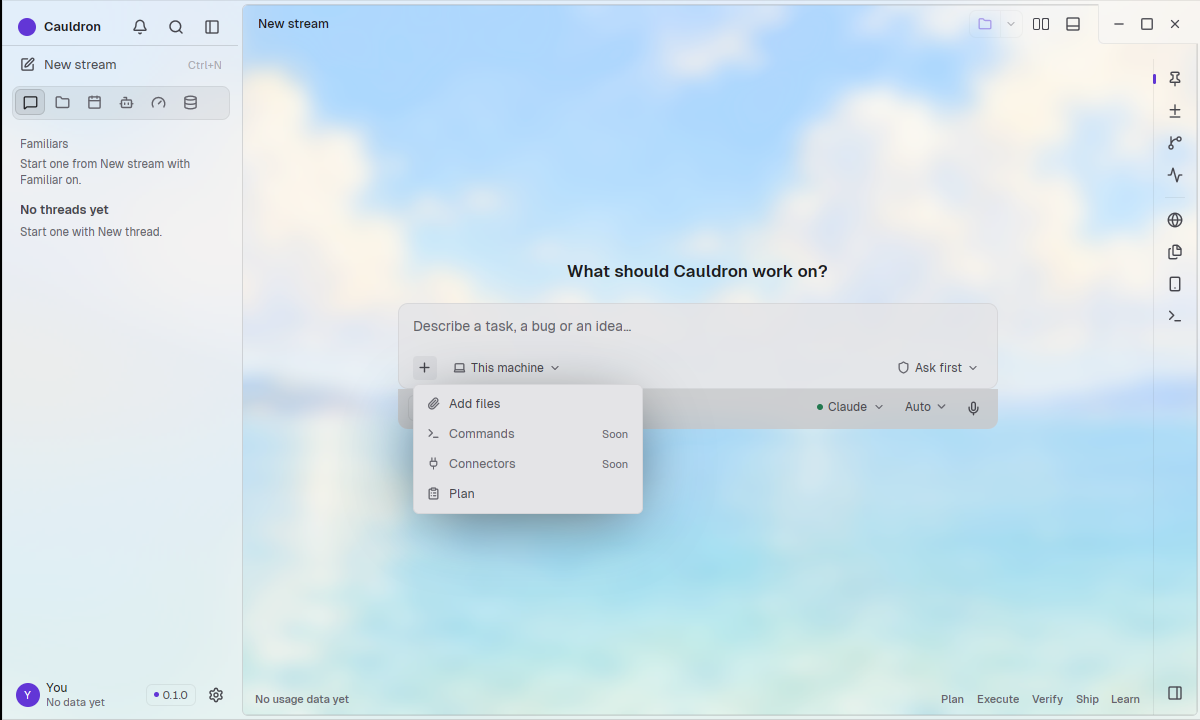
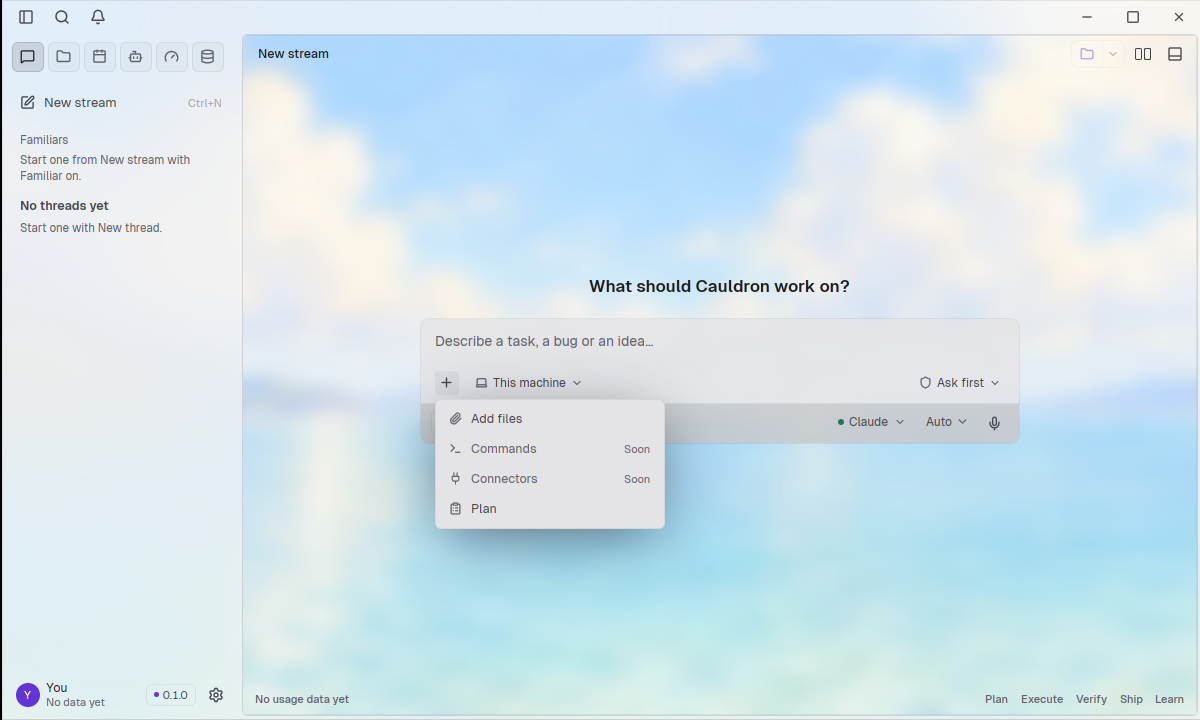
Composer: one border around the box and tray; merge top-bar and apps-row work (PR 61)
Claude-Session: https://claude.ai/code/session_01LKPD2Fpi6kmiMA27fdpFm5

diff --git a/crates/app/src/shell/newthread.rs b/crates/app/src/shell/newthread.rs
@@ -404,9 +404,7 @@ impl Cauldron {
             .pr(px(10.))
             .pb(px(8.))
             .bg(super::backdrop::surface(self.painting, pal.raised, super::backdrop::GLASS_COMPOSER))
-            .rounded(px(radius::SHELL))
-            .border_1()
-            .border_color(if focused { body_line(pal, true) } else if self.plan { c(pal.accent) } else { c(pal.line) })
+            .rounded_t(px(radius::SHELL - 1.))
             .child(div().id("nt-input").mx(px(-10.)).text_size(px(13.)).child(Textarea::new(&input).appearance(false)).test_support());
         if !self.start.files.is_empty() {
             let mut row = div().flex().flex_wrap().gap(px(6.));
@@ -504,8 +502,10 @@ impl Cauldron {
             .overflow_hidden()
             .relative()
             .bg(super::backdrop::surface(self.painting, pal.raised, super::backdrop::GLASS_COMPOSER))
-            .rounded_b(px(radius::SHELL))
-            .child(div().absolute().left_0().top_0().size_full().rounded_b(px(radius::SHELL)).bg(gpui::black().opacity(0.10)))
+            .border_t_1()
+            .border_color(c(pal.line))
+            .rounded_b(px(radius::SHELL - 1.))
+            .child(div().absolute().left_0().top_0().size_full().rounded_b(px(radius::SHELL - 1.)).bg(gpui::black().opacity(0.10)))
             .child(folder)
             .child(div().flex_1())
             .child(self.route_chip("nt-model", super::subs::PickFor::New, self.start.route.as_ref(), pal, cx))
@@ -529,12 +529,12 @@ impl Cauldron {
             .aria_label("What should Cauldron work on?")
             .child("What should Cauldron work on?")
             .test_support();
-        let nt_stack = div().id("nt-stack").flex().flex_col().on_hover(cx.listener(|this, h: &bool, _, cx| {
+        let nt_stack = div().id("nt-stack").flex().flex_col().rounded(px(radius::SHELL)).border_1().border_color(if focused { body_line(pal, true) } else if self.plan { c(pal.accent) } else { c(pal.line) }).on_hover(cx.listener(|this, h: &bool, _, cx| {
             if this.start.tray_hover != *h {
                 this.start.tray_hover = *h;
                 cx.notify();
             }
-        })).child(nt_box).child(bar);
+        })).child(nt_box).child(bar).test_support();
         let mut wrap = div().w_full().max_w(px(BOX_W)).flex().flex_col().child(heading).child(nt_stack);
         if let Some(e) = &self.start.error {
             wrap = wrap.child(line("start-error", e.clone(), c(pal.bad)));
@@ -957,7 +957,7 @@ mod tests {
             }
             let (bx, by, bw, bh) = rect(window, "nt-box");
             let (cx0, cy0, cw, ch) = rect(window, "new-thread-screen");
-            assert_eq!(bw, 600f32.min(cw - 48.0), "the Tight tiles board's 600, or the card's inside less its padding");
+            assert_eq!(rect(window, "nt-stack").2, 600f32.min(cw - 48.0), "the Tight tiles board's 600, or the card's inside less its padding");
             assert!(bh >= 79.0, "at least the board's box with one line: {bh}");
             assert!(((bx + bw / 2.0) - (cx0 + cw / 2.0)).abs() <= 1.0, "centred across the card");
             assert!(((by + bh / 2.0) - (cy0 + ch / 2.0)).abs() <= 60.0, "about the middle of the card");
